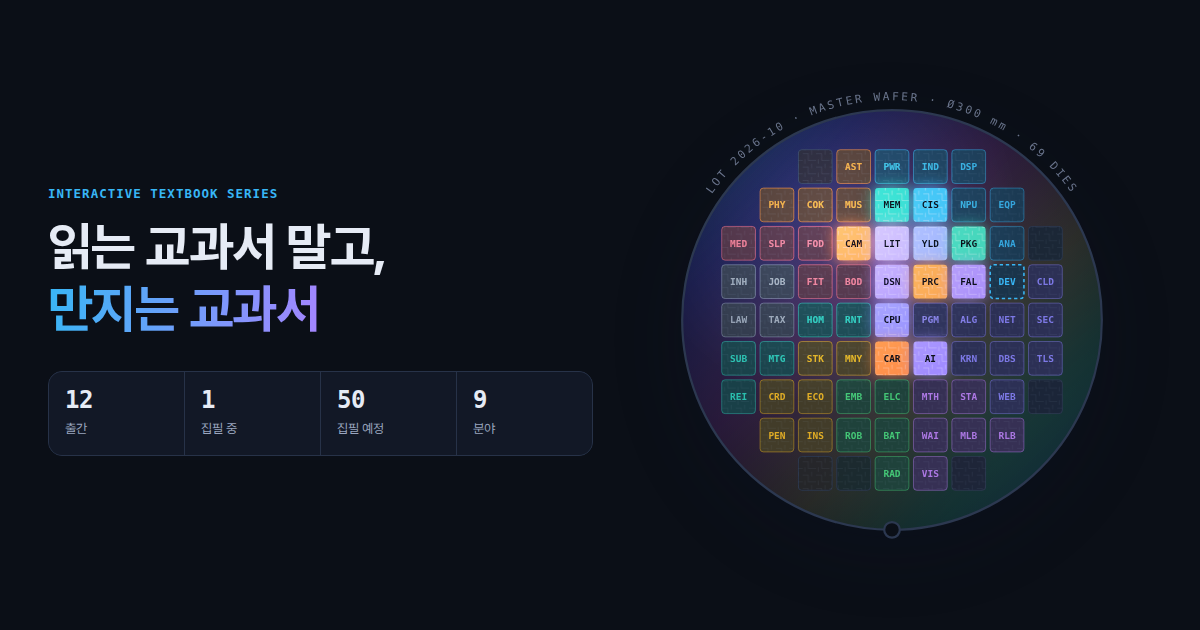
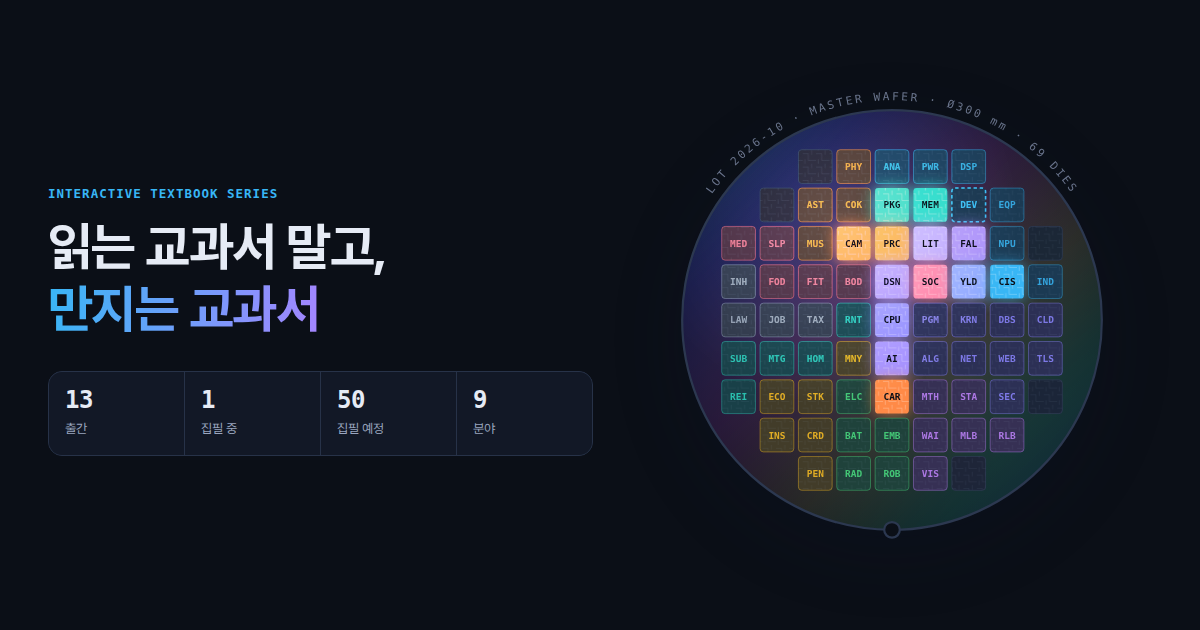
Publish SoCBook
Add SoCBook (시스템 온 칩) to the semiconductor design stage with two
featured simulator captures (SB-1 die explorer, mesh NoC) and a new
'soc' floorplan cover motif. Regenerated og.png.

Claude-Session: https://claude.ai/code/session_01FmDfRm9DF5RWtBmyFTpFBo

diff --git a/js/covers.js b/js/covers.js
@@ -136,6 +136,14 @@
       s += `<g class="cv-scan-lens"><circle cx="121" cy="77" r="24" fill="none" stroke="${W}" stroke-width="3"/><line x1="138" y1="94" x2="156" y2="112" stroke="${W}" stroke-width="5" stroke-linecap="round"/></g>`;
       return svg(s);
     },
+    // SoC: 다이 평면도 위의 블록들, 블록 사이로 데이터가 오간다
+    soc() {
+      const blocks = [[64, 10, 40, 34, 0.75], [108, 10, 30, 34, 0.5], [142, 10, 46, 52, 0.85], [64, 48, 74, 14, 0.35], [64, 66, 50, 34, 0.6], [118, 66, 70, 16, 0.45], [118, 86, 70, 14, 0.3], [64, 104, 124, 16, 0.4]];
+      let s = `<rect x="58" y="4" width="136" height="122" rx="4" fill="#000" fill-opacity=".18" stroke="${W}" stroke-opacity=".6"/>`;
+      blocks.forEach(([x, y, w, h, o], k) => { s += `<rect class="cv-pulse" style="animation-delay:${(k * 0.25).toFixed(2)}s" x="${x}" y="${y}" width="${w}" height="${h}" rx="2" fill="${W}" fill-opacity="${o}"/>`; });
+      s += `<path class="cv-flow" d="M84 44 V56 H165 V62 M89 100 V112 H150" fill="none" stroke="#000" stroke-opacity=".45" stroke-width="2" stroke-dasharray="4 6"/>`;
+      return svg(s);
+    },
     // 기본: 다이 격자
     grid() {
       let s = "";
